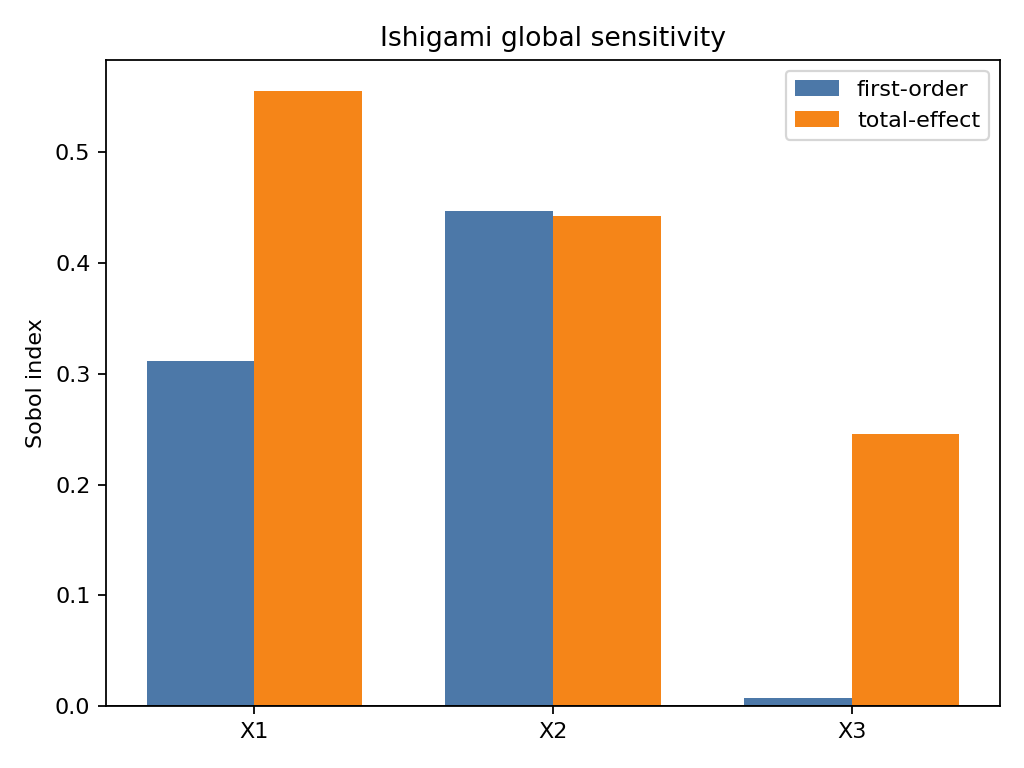
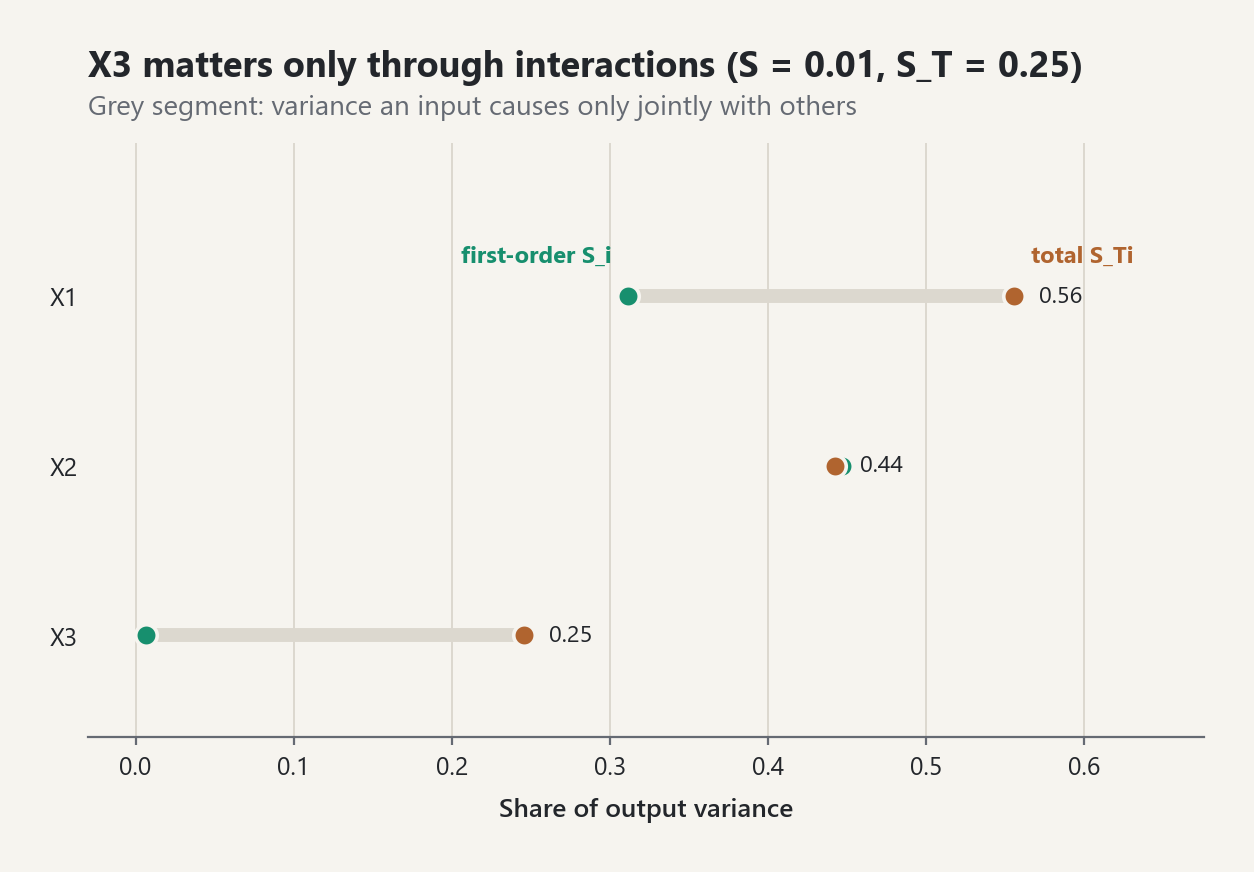
docs: rewrite README around the central model and UQStudy; refresh gallery

diff --git a/README.md b/README.md
@@ -1,11 +1,14 @@
 # Stats-Lab
 
-**A citation-first Python library that builds probability, statistics, and
-uncertainty quantification from auditable foundations.**
+**A citation-first Python library for probability, statistics, and
+uncertainty quantification, built around one model object that every analysis
+shares.**
 
-Every public formula carries an equation ID, every equation points to a primary
-source, and every design decision is recorded. The goal is software you can
-trust *and* explanations you can teach from.
+Define your uncertain inputs and your simulator once. The same object then
+answers forward questions (what does the output look like?), backward
+questions (what do the data say about the inputs?), and risk questions (how
+likely is failure and what does it cost?), with one seed tree and one report.
+Every formula carries an equation ID that resolves to a primary source.
 
 ![Python 3.11+](https://img.shields.io/badge/python-3.11%2B-3776AB)
 ![License: BSD-3-Clause](https://img.shields.io/badge/license-BSD--3--Clause-blue)
@@ -18,112 +21,112 @@ git clone https://github.com/ayberkdt/Stats-Lab.git
 cd Stats-Lab
 python -m venv .venv
 source .venv/bin/activate        # Windows: .venv\Scripts\Activate.ps1
-python -m pip install -e .
-```
-
-Exact probability on a finite sample space:
-
-```python
-from probstat.probability import (
-    FiniteProbabilityMeasure,
-    FiniteRandomVariable,
-    FiniteSampleSpace,
-)
-
-die = FiniteSampleSpace((1, 2, 3, 4, 5, 6))
-fair = FiniteProbabilityMeasure.uniform(die)
-
-print(fair.probability(die.event((2, 4, 6))))  # 0.5
-
-roll = FiniteRandomVariable.from_function(fair, float, name="Roll")
-print(roll.expectation, roll.variance)  # 3.5 2.9166666666666665
-```
-
-A seeded Monte Carlo estimate that reports its own uncertainty:
-
-```python
-import random
-
-from probstat.monte_carlo import estimate_mean
-
-rng = random.Random(2026)
-hits = (
-    4.0 if rng.random() ** 2 + rng.random() ** 2 <= 1.0 else 0.0
-    for _ in range(20_000)
-)
-pi = estimate_mean(hits)
-print(f"{pi.estimate:.4f} ± {pi.standard_error:.4f}")  # 3.1580 ± 0.0115
-print(pi.confidence_interval)  # 95% interval, method stated explicitly
-```
-
-The core library has no runtime dependencies. Plotting is optional:
-
-```bash
 python -m pip install -e ".[visualization]"
-python examples/basic_monte_carlo_lab.py
 ```
+
+One model, every analysis:
+
+```python
+from probstat.distributions import LogNormal, Normal
+from probstat.modeling import JointInput, ProbabilisticModel, RandomInput
+from probstat.risk import custom_loss
+from probstat.uq import QuantityOfInterest
+from probstat.workflow import UQStudy
+
+inputs = JointInput.independent(
+    RandomInput("load", LogNormal(0.9, 0.25), unit="kN"),
+    RandomInput("strength", Normal(4.0, 0.4), unit="kN"),
+)
+model = ProbabilisticModel(
+    inputs,
+    lambda p: {"margin": p["strength"] - p["load"]},
+    (QuantityOfInterest("margin", "capacity minus demand", "kN"),),
+)
+
+study = UQStudy(model, seed=2026)
+forward = study.propagate(4096, design="sobol")           # output distribution
+sobol = study.sensitivity("margin", 1024)                  # which input matters
+methods = study.reliability("margin", 0.0, failure="below")  # FORM, SORM, IS, subset, MC
+risk = study.risk("margin", custom_loss(lambda m: 50.0 * max(0.0, -m)), 20_000)
+
+forward["margin"].quantile(0.05)        # 0.124
+sobol.ranking()                          # ('load', 'strength')
+methods.row("FORM").probability          # 0.0362  (Monte Carlo: 0.0395)
+risk.conditional_value_at_risk[0.99]     # 49.8, mean loss in the worst 1%
+print(study.report())                    # Markdown: every stage, cost, and seed
+```
+
+The same study can also `calibrate` the inputs against experiments,
+`predict` with the posterior, `validate` against independent data, and
+`emulate` the model with a polynomial-chaos or Gaussian-process surrogate.
+The core library has no runtime dependencies; Matplotlib is only needed for
+figures.
 
 ## What's inside
 
-| Layer | Package | Covers |
+| Layer | Packages | Highlights |
 |---|---|---|
-| Foundations | `probability` | Finite sample spaces, event algebra, measures, Bayes' rule, counting |
-| | `distributions` | Bernoulli, Binomial, Categorical, Poisson, Geometric, Negative Binomial, Uniform, Exponential, Normal, Lognormal, Weibull |
-| | `statistics` | Descriptive statistics for univariate and paired samples |
-| | `multivariate` | Positive-definite multivariate Normal, dependency-free Cholesky |
-| Inference | `inference` | MLE, confidence procedures (z, Wilson), KS/AD goodness of fit |
-| Numerics | `numerics`, `foundations` | Trapezoid and Simpson quadrature, parameter validation, shared law protocols |
-| Uncertainty quantification | `uq`, `validation` | Uncertainty taxonomy, quantities of interest, `Y = g(X)` contracts, error budgets, observed convergence order, Richardson extrapolation, model discrepancy |
-| | `monte_carlo` | Crude MC, antithetic, control variates, stratified and importance sampling, cost-normalized efficiency |
-| | `propagation` | Forward propagation with threshold probabilities |
-| | `reliability` | Failure probability, Wilson bounds, affine FORM, directional sampling |
-| | `sensitivity` | Finite-difference gradients, first-, second-, and total-effect Sobol indices |
-| | `inverse` | Linear-Gaussian Bayesian calibration, posterior predictive, model discrepancy |
-| Optional | `visualization` | Explanatory plots built on stable domain APIs (matplotlib) |
+| Central model | `modeling` | Named marginals + Gaussian copula, Nataf transform, random-field (KL) inputs, `ProbabilisticModel` |
+| Forward | `propagation`, `sampling`, `monte_carlo` | Monte Carlo, Latin hypercube, scrambled Halton and Sobol designs; variance reduction; quantiles and exceedance curves |
+| Sensitivity | `sensitivity` | Sobol first/total indices with bootstrap intervals, Morris screening, local derivatives |
+| Reliability | `reliability` | HL-RF FORM, SORM, design-point importance sampling, subset simulation, system bounds, inverse FORM |
+| Risk | `risk` | VaR/CVaR, loss models, fault and event trees, fragility curves, EVPI/EVSI |
+| Backward | `inverse`, `inference` | Nonlinear calibration, adaptive MCMC with R-hat/ESS, Laplace, unknown noise, posterior prediction |
+| Validation | `validation` | Area metric, u-pooling, ASME V&V 20 comparison, applicability domain, scoped verdicts |
+| Dynamics | `filtering`, `data_assimilation`, `processes` | Kalman/EKF/UKF, RTS smoother, particle filter, EnKF, 3D-Var; Markov chains, SDEs, random fields |
+| Emulators | `surrogates` | Polynomial chaos (Sobol from coefficients), Gaussian-process regression |
+| Statistics | `statistics`, `inference`, `distributions` | t/chi-square/rank/permutation tests, bootstrap (BCa), power, multiple testing, distribution families |
+| Foundations | `linalg`, `optimization`, `numerics`, `probability` | Cholesky/LU/Jacobi, BFGS/Levenberg-Marquardt/Brent, quadrature, exact finite probability |
 
 The [ATHENS 2026 coverage matrix](docs/curriculum/athens-2026-coverage.md)
-tracks all 110 topics of the ATHENS 2026 VV-UQ course: 74 implemented,
-17 partial, 19 planned.
+tracks all 110 topics of the ATHENS 2026 VV-UQ course: 91 implemented,
+17 partial, 2 planned.
 
 ## Example labs
 
-Each lab in [`examples/`](examples) is seeded and reproducible. They write
-their figures to `examples/generated/`.
+Every lab in [`examples/`](examples) is seeded and reproducible and writes its
+figures to `examples/generated/`. All figures share one theme: colour follows
+meaning (data, model, reference), titles state the finding, and labels sit on
+the data.
 
 | | |
 |---|---|
-| ![Monte Carlo convergence](docs/images/monte-carlo-pi-convergence.png) | ![Bayesian calibration](docs/images/bayesian-calibration-prediction.png) |
-| **Monte Carlo convergence**: the estimate and its confidence interval tighten at the 1/√N rate. | **Bayesian calibration**: parameter uncertainty is kept separate from future-observation uncertainty. |
-| ![Reliability comparison](docs/images/reliability-method-comparison.png) | ![Sobol indices](docs/images/ishigami-sobol-indices.png) |
-| **Reliability**: direct MC, directional sampling, and FORM estimate the same failure probability. | **Global sensitivity**: Sobol indices show that X3 matters only through interactions. |
+| ![Sampling designs](docs/images/central-model-design-comparison.png) | ![FORM geometry](docs/images/central-model-form-geometry.png) |
+| **Forward**: scrambled Sobol points cut the error of the mean 15x at the same cost. | **Reliability**: FORM finds the most likely failure point in standard-normal space. |
+| ![Loss exceedance](docs/images/central-model-loss-exceedance.png) | ![Calibration forecast](docs/images/calibration-forecast.png) |
+| **Risk**: the expected loss hides a heavy tail; CVaR shows it. | **Backward**: MCMC calibration, then a forecast whose bands widen beyond the data. |
+| ![Filter tracking](docs/images/filtering-velocity.png) | ![Sobol indices](docs/images/ishigami-sobol-indices.png) |
+| **Filtering**: the Kalman filter recovers a velocity that is never measured. | **Sensitivity**: X3 matters only through interactions. |
+
+Start with [`examples/uq_study_lab.py`](examples/uq_study_lab.py) (one model
+through every stage) and
+[`examples/central_model_lab.py`](examples/central_model_lab.py) (the same
+steps with the low-level APIs).
 
 ## Design principles
 
-- **Citation-first.** Docstrings cite equation IDs such as `EQ-MC-PROB-001`.
-  Look them up in the [equation registry](docs/equation-registry.md), then
-  follow the citation key to the [bibliography](docs/references.md).
-- **Honest boundaries.** Each estimator states its assumptions, cost, and
-  failure modes. Singular covariances raise errors instead of being
-  silently jittered.
-- **Reproducible randomness.** Every random stream is seeded locally, with no
-  shared global state.
-- **Recorded decisions.** Architectural choices are kept as ADRs in
+- **One model, every question.** `ProbabilisticModel` is the only model
+  contract; analyses never redefine the inputs or the simulator.
+- **Citation-first.** Docstrings cite equation IDs such as `EQ-REL-HLRF-001`;
+  each resolves in the [equation registry](docs/equation-registry.md) to a
+  [bibliography](docs/references.md) entry.
+- **Honest boundaries.** Estimators report assumptions, model-evaluation cost,
+  and failure modes. Singular inputs raise instead of being jittered, and
+  validation results are scoped verdicts, never "validated".
+- **Reproducible randomness.** One root seed derives named child streams for
+  every stage.
+- **Recorded decisions.** Architecture choices are ADRs in
   [`memory/decisions/`](memory/decisions).
-- **Layered teaching.** Concepts go from definitions to assumptions,
-  equations, examples, and visuals without dropping mathematical scope.
 
 ## Documentation
 
-Start with the [learning path](docs/learning-path.md), then read the
-foundation guides in order:
-
-1. [VV-UQ foundations](docs/foundations/vv-uq-foundations.md)
-2. [Uncertainty modeling and fitting](docs/foundations/uncertainty-modeling-and-fitting.md)
-3. [Uncertainty propagation](docs/foundations/uncertainty-propagation.md)
-4. [Advanced Monte Carlo](docs/foundations/advanced-monte-carlo.md)
-5. [Reliability analysis](docs/foundations/reliability-analysis.md)
-6. [Sensitivity analysis](docs/foundations/sensitivity-analysis.md)
-7. [Inverse problems and Bayesian calibration](docs/foundations/inverse-problems-and-calibration.md)
+1. [Learning path](docs/learning-path.md): the suggested reading order
+2. [The central probabilistic model](docs/foundations/probabilistic-modeling.md)
+3. [Uncertainty propagation](docs/foundations/uncertainty-propagation.md) and [sensitivity analysis](docs/foundations/sensitivity-analysis.md)
+4. [Model-based reliability](docs/foundations/advanced-reliability.md) and [risk analysis](docs/foundations/risk-analysis.md)
+5. [Nonlinear calibration and MCMC](docs/foundations/nonlinear-calibration-and-mcmc.md) and [model validation](docs/foundations/model-validation.md)
+6. [Filtering and data assimilation](docs/foundations/filtering-and-data-assimilation.md) and [surrogate models](docs/foundations/surrogate-models.md)
+7. [All foundation guides](docs/foundations)
 
 Reference: [Architecture](docs/architecture.md) ·
 [Roadmap](memory/ROADMAP.md) · [Changelog](CHANGELOG.md)
@@ -137,8 +140,9 @@ python -m ruff check .
 python -m mypy src/probstat
 ```
 
-Before you open a pull request, read the [contribution contract](CONTRIBUTING.md).
-New public functions need a docstring, an equation record, and a citation.
+CI runs these checks and every example lab on Python 3.11 to 3.13. Before
+opening a pull request, read the [contribution contract](CONTRIBUTING.md): new
+public functions need a docstring, an equation record, and a citation.
 
 ## License
 
